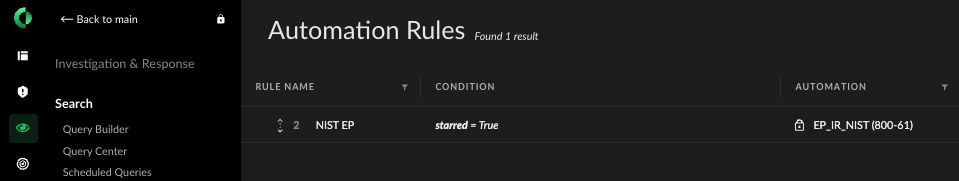
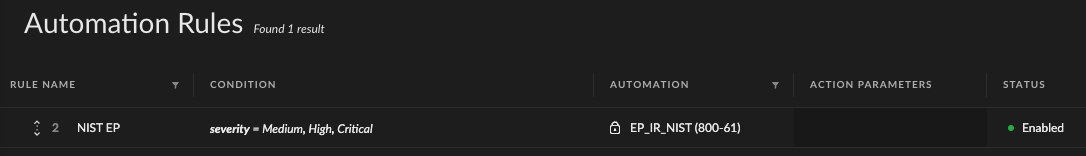
- Update for triggered playbooks

diff --git a/POST_CONFIG_README.md b/POST_CONFIG_README.md
@@ -14,8 +14,8 @@ manual steps still need to be done:
 ![Starring_NIST_IR.png](images/Starring_NIST_IR.png)
 3. **Configure Automation Trigger**
    * NIST Incident Response Flow (800-61)
-     * Trigger playbook "EP_IR_NIST(800-61)" on starred Alerts
-     ![Automation_Trigger_NIST_IR.png](images/Automation_Trigger_NIST_IR.png)
+     * Trigger playbook "EP_IR_NIST(800-61)" on Medium Severity or Higher Alerts
+     ![Automation_Trigger_NIST_IR.png](https://github.com/Palo-Cortex/soc-optimization/blob/main/images/Automation_Trigger_NIST_IR.png)
 --- 
 ## What Next?
 1. XSIAM SOC Value Metrics Dashboard([Value Metrics](Documentation/Value_Metrics.md))
